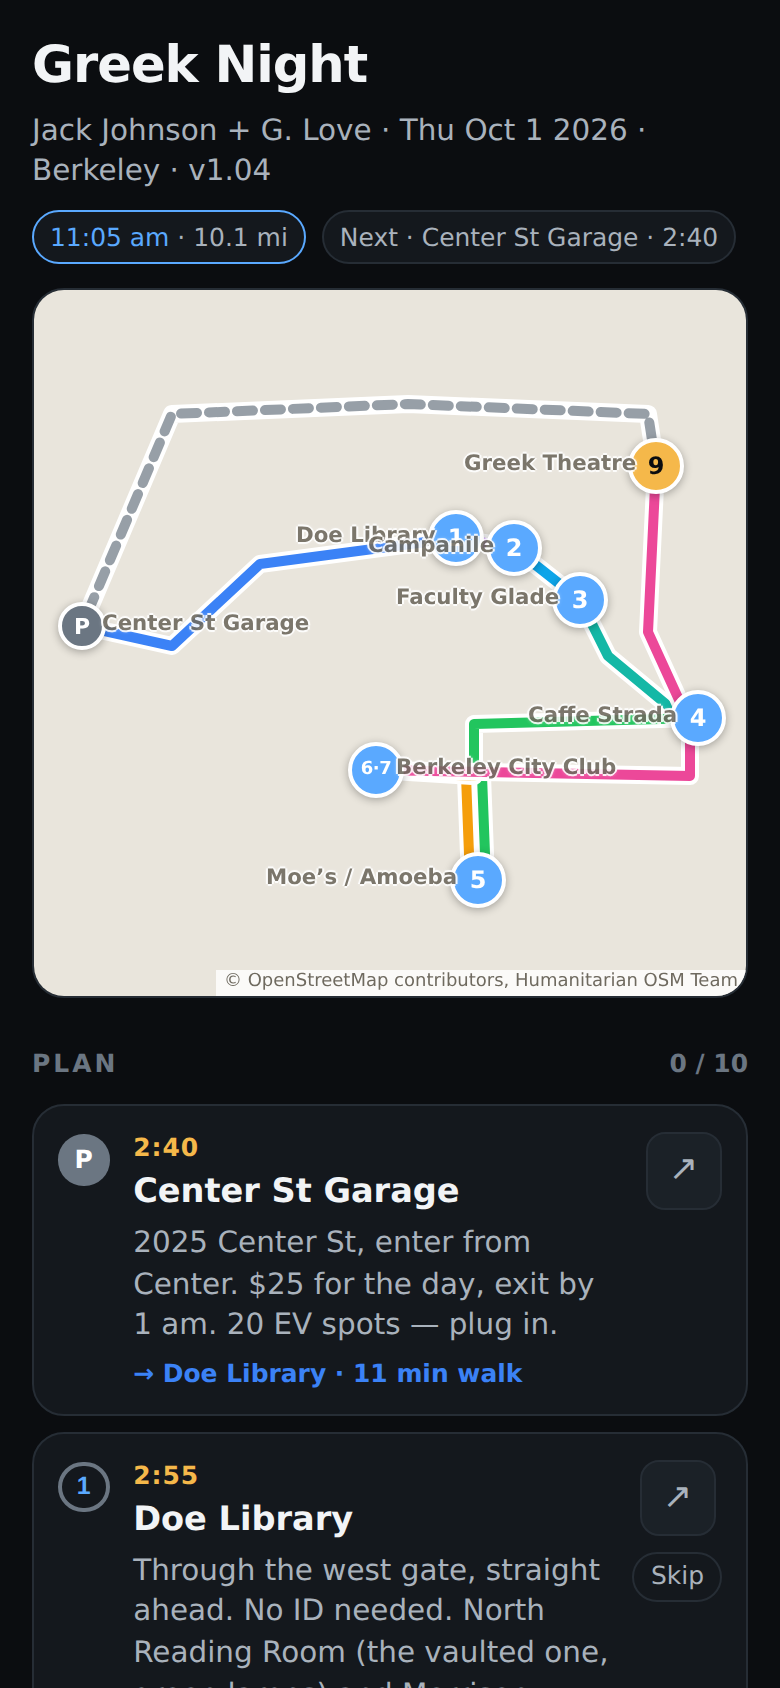
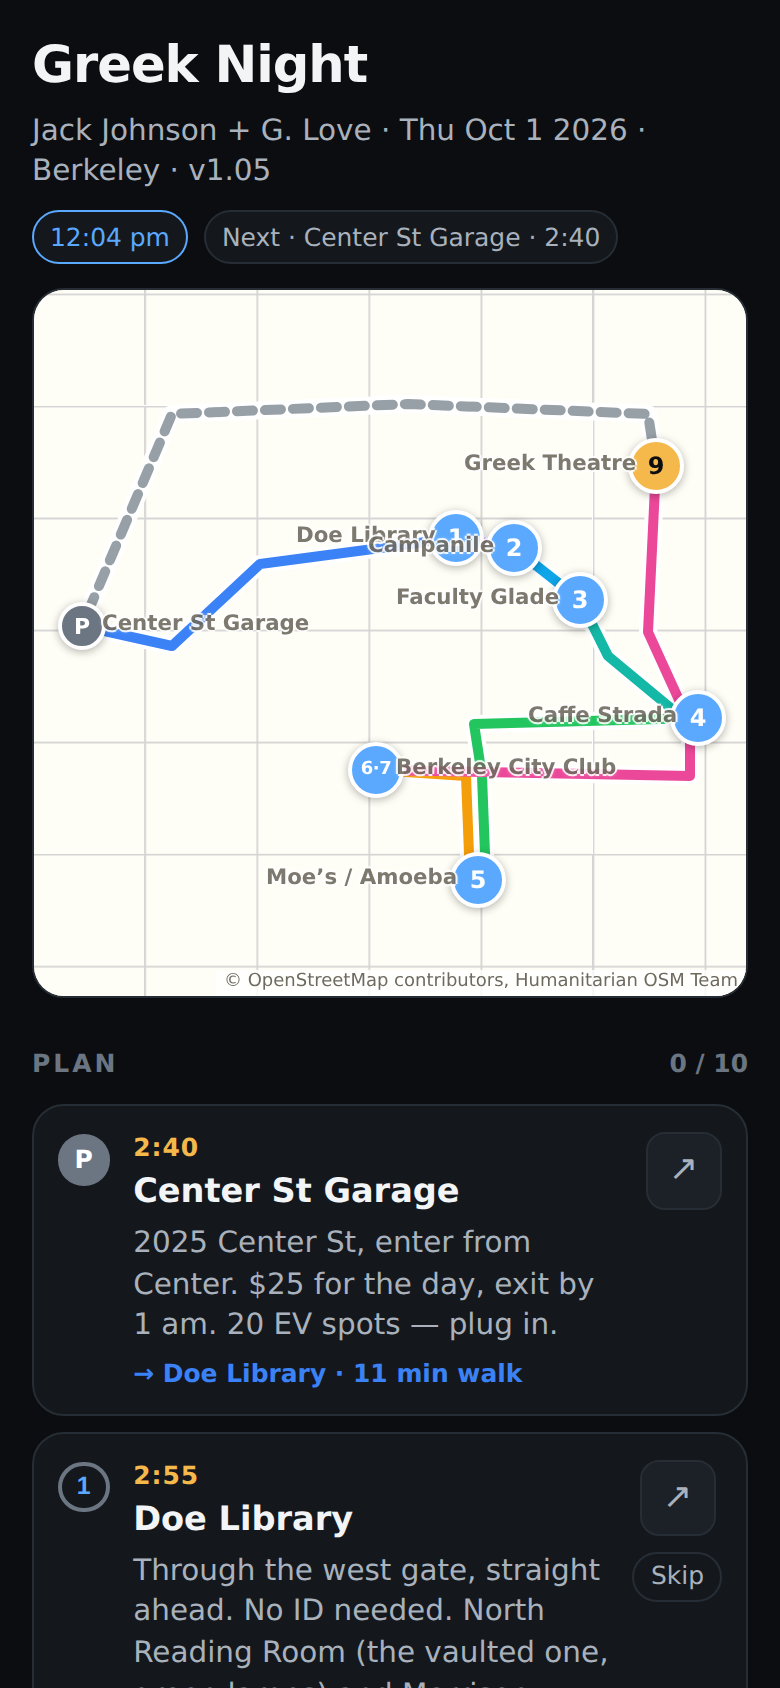
greek-night: fix green corner v1.05
Only the shared stretch of a leg is offset; where a plain part meets an
offset part the plain part's end vertex now slides to the offset part's
real start (recomputed on zoomend), so the corner joins without a 4px
step. Casings draw in a first pass and coloured lines in a second, so a
later leg's white casing no longer covers an earlier leg's offset line.

Claude-Session: https://claude.ai/code/session_01SYEqCQ4izqiJdBAjLeUwFf

diff --git a/greek-night.html b/greek-night.html
@@ -101,7 +101,7 @@
 <body>
 <header>
   <h1>Greek Night</h1>
-  <p>Jack Johnson + G. Love · Thu Oct 1 2026 · Berkeley · v1.04</p>
+  <p>Jack Johnson + G. Love · Thu Oct 1 2026 · Berkeley · v1.05</p>
   <div class="meta">
     <span class="chip now" id="clock"><span id="clocktime">—</span><span class="sub" id="clocksub" hidden></span></span>
     <span class="chip" id="next"></span>
@@ -126,7 +126,7 @@
   <button id="reset">Reset checks</button>
 </div>
 
-<footer>Greek Night · v1.04 · 238fa1e</footer>
+<footer>Greek Night · v1.05 · d4e8741</footer>
 
 <script>
 (function(){
@@ -490,15 +490,36 @@
     });
   }
 
-  function legDraw(l){
+  /* two passes: every white casing first, then every coloured line, so a later leg's casing never covers an earlier leg's
+     offset line where they share a street. Only the shared stretch of a leg is offset; the plain parts keep their corners. */
+  function legDraw(l, pass){
     var dash = l.ret ? '8 6' : null;
     l.parts.forEach(function(pt, n){
       var off = hasOffset ? pt.off * 4 : 0, thin = !hasOffset && pt.off > 0;
-      var cls = 'leg' + (l.ret ? ' ret' : '') + ' l' + l.name.replace(/[^0-9A-Za-z]+/g, '-');
-      if (!thin) L.polyline(pt.ll, {color:'#fff', weight:9, opacity:1, lineJoin:'round', lineCap:'round', offset:off, interactive:false, className:'legcase'}).addTo(routeLayer);
-      L.polyline(pt.ll, {color:l.col, weight:thin ? 3 : 5, opacity:l.ret ? .7 : 1, dashArray:dash, lineJoin:'round', lineCap:'round', offset:off, interactive:false, className:cls}).addTo(routeLayer);
+      var cls = 'leg' + (l.ret ? ' ret' : '') + ' l' + l.name.replace(/[^0-9A-Za-z]+/g, '-'), line;
+      if (!pass) { if (!thin) line = L.polyline(pt.ll, {color:'#fff', weight:9, opacity:1, lineJoin:'round', lineCap:'round', offset:off, interactive:false, className:'legcase'}).addTo(routeLayer); }
+      else line = L.polyline(pt.ll, {color:l.col, weight:thin ? 3 : 5, opacity:l.ret ? .7 : 1, dashArray:dash, lineJoin:'round', lineCap:'round', offset:off, interactive:false, className:cls}).addTo(routeLayer);
+      if (!line || !hasOffset || off) return;
+      var prev = n ? l.parts[n - 1] : null, next = l.parts[n + 1] || null;
+      if ((prev && prev.off) || (next && next.off)) joins.push({ll:pt.ll, prev:prev && prev.off ? prev : null, next:next && next.off ? next : null, line:line});
     });
   }
+  /* where a plain part meets an offset one, the plain part's end vertex slides over to where the offset part actually starts,
+     so the join is a short diagonal rather than a 4px step. Pixel offsets move with the zoom, so this re-runs on every zoomend. */
+  var joins = [];
+  function offsetPt(v, w, off){   /* v shifted by off px to the right of travel v→w, the plugin's convention */
+    var a = map.latLngToLayerPoint(v), b = map.latLngToLayerPoint(w), dx = b.x - a.x, dy = b.y - a.y, d = Math.hypot(dx, dy) || 1;
+    return map.layerPointToLatLng(L.point(a.x - dy / d * off, a.y + dx / d * off));
+  }
+  function joinParts(){
+    joins.forEach(function(j){
+      var ll = j.ll.slice(), n = j.next && j.next.ll, pv = j.prev && j.prev.ll;
+      if (n) ll[ll.length - 1] = offsetPt(n[0], n[1], j.next.off * 4);
+      if (pv) ll[0] = offsetPt(pv[pv.length - 1], pv[pv.length - 2], -j.prev.off * 4);
+      j.line.setLatLngs(ll);
+    });
+  }
+  map.on('zoomend', joinParts);
 
   /* the leg's midpoint by path length (kept for use by the rows' walk lines) */
   function midpoint(l){
@@ -518,7 +539,9 @@
     routeData();
     routeLayer.clearLayers(); markers = [];
     legParts(LEGS);
-    LEGS.filter(function(l){ return l.ret; }).concat(LEGS.filter(function(l){ return !l.ret; })).forEach(legDraw);
+    joins = [];
+    var order = LEGS.filter(function(l){ return l.ret; }).concat(LEGS.filter(function(l){ return !l.ret; }));
+    order.forEach(function(l){ legDraw(l, 0); }); order.forEach(function(l){ legDraw(l, 1); });
     PLACES.forEach(function(s, i){
       var steps = liveSteps(s), plain = s.start;
       if (!steps.length && !plain) return;
@@ -529,6 +552,7 @@
       m.place = s; markers.push(m);
     });
     fitRoute();
+    joinParts();   /* needs a view: after the fit */
     paintMap(planStates().cur);
   }
 
